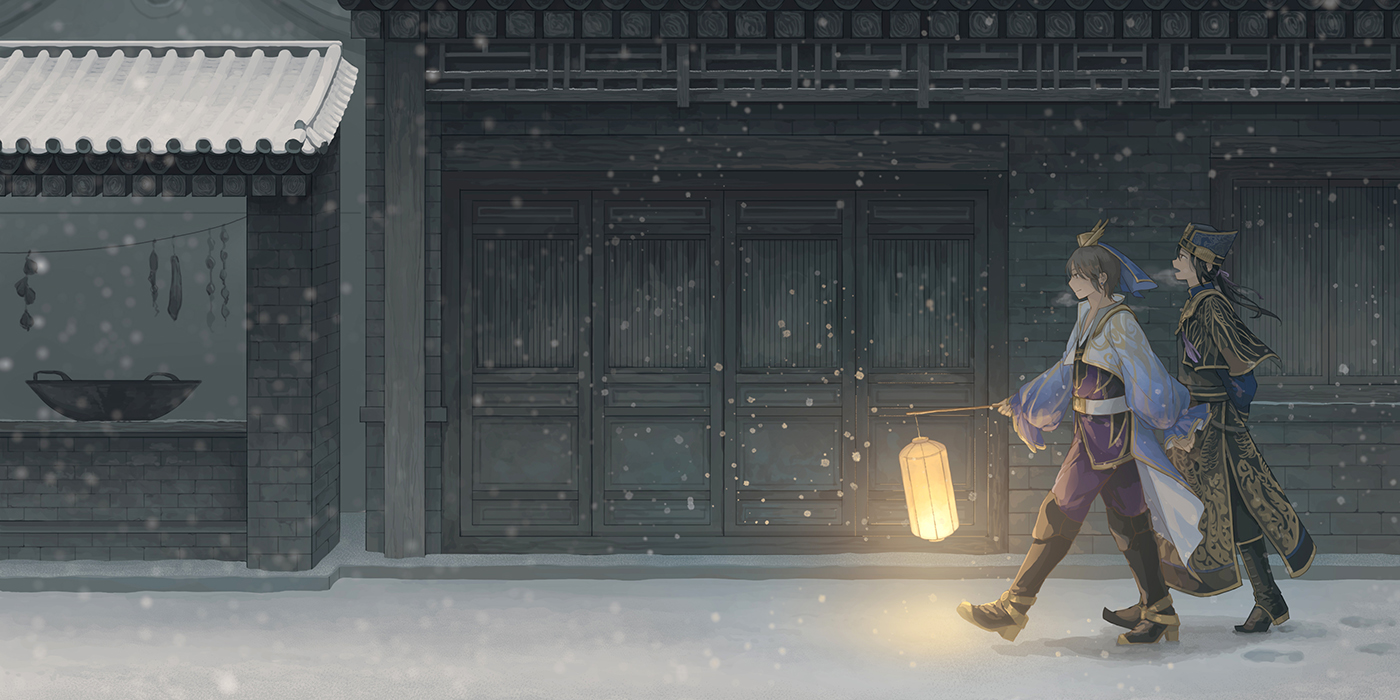
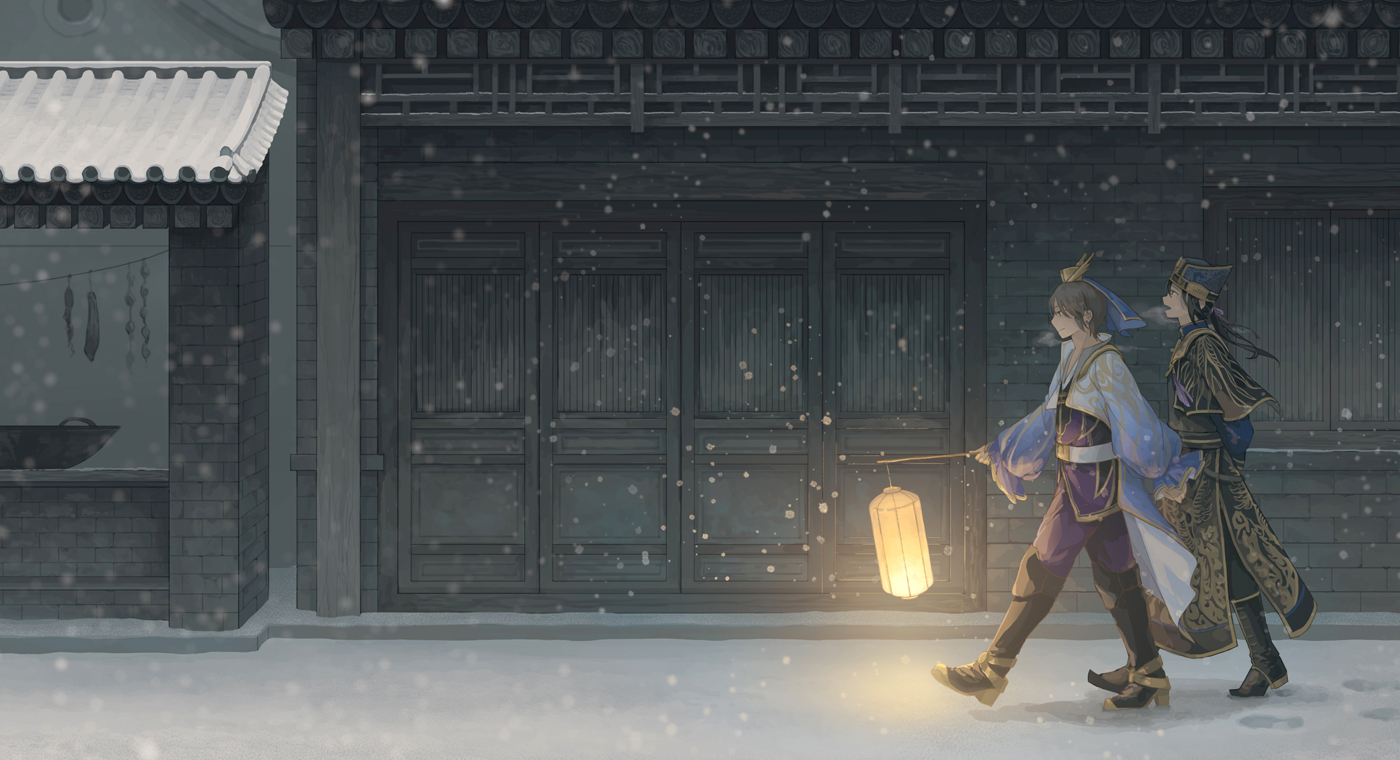
更新hero背景圖與文字內容、樣式

diff --git a/style.css b/style.css
@@ -157,6 +157,9 @@ span {font-size: var(--fs-span); color: var(--text-muted)}
     position: relative;
     height: 25vh;
     width: 100%;
+    min-height: 200px; /* 確保至少有 200px 的高度 */
+    object-fit: cover; /* 關鍵：自動裁切並填滿 */
+    object-position: center; /* 也可以設為 center top 確保人臉或標題不被切掉 */
     display: flex;
     justify-content: center;
     align-items: center;
@@ -166,7 +169,7 @@ span {font-size: var(--fs-span); color: var(--text-muted)}
     height: 140px;
     padding: 20px 0;
 }
-.page-hero-small .hero-content h1 {
+.page-hero-small h1 {
     margin: 0;
     font-size: 1.5rem;
 }
@@ -250,15 +253,25 @@ span {font-size: var(--fs-span); color: var(--text-muted)}
 
 .hero-content h1 {
     color: var(--text-light);
-    letter-spacing: 2px;
-    word-spacing: 8px;
+    font-size: 0.8rem;
+    letter-spacing: 1px;
+    word-spacing: 4px;
     margin: 10px 0;
     text-shadow: var(--text-shadow);
 }
 
 .hero-content p{
     color: var(--text-light);
-    letter-spacing: 3px;
+    font-size: 1.6rem;
+    letter-spacing: 5px;
+    text-shadow: var(--text-shadow);
+}
+.hero-content .memo{
+    color: var(--text-light);
+    font-size: 0.6rem;
+    letter-spacing: 2px;
+    word-spacing: 8px;
+    white-space: pre-wrap
 }
 
 .hero-content p:first-child {

diff --git a/index.html b/index.html
@@ -24,7 +24,11 @@
     <main class="index-container">
         <header class="page-hero">
             <div class="page-index page-hero-bg"></div>
-            <div class="hero-content"><h1>TAKAMI's Artwork<br></h1></div>
+            <div class="hero-content">
+                <h1>TAKAMI's Artwork</h1>
+                <p>一灯行夜</p>
+                <p class="memo">いっとう こうや</p>
+            </div>
             <div class="logo-container">
                 <img src="img/logo.jpg" alt="Logo" class="main-logo">
             </div>
